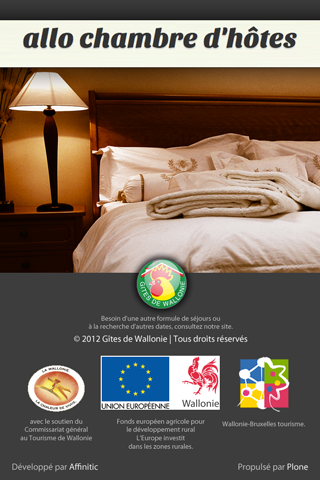
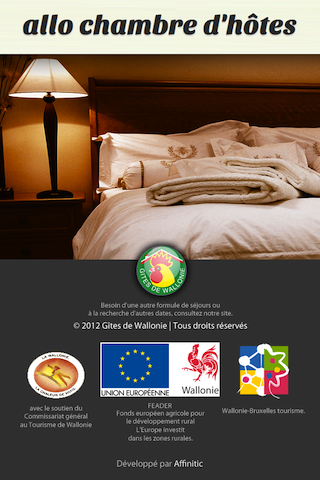
On Phonegap : Add FEADER to text and change credit image This refs #5362

diff --git a/index.html b/index.html
@@ -192,13 +192,13 @@
                              switch (language)
                              {
                                  case "en":
-                                   document.write('European Agricultural Fund for Rural Development.<br />Europe invests in rural areas.');
+                                   document.write('FEADER<br />European Agricultural Fund for Rural Development.<br />Europe invests in rural areas.');
                                  break;
                                  case "fr":
-                                   document.write('Fonds europ&eacute;en agricole pour le d&eacute;veloppement rural.<br />L\'Europe investit dans les zones rurales.');
+                                   document.write('FEADER<br />Fonds europ&eacute;en agricole pour le d&eacute;veloppement rural.<br />L\'Europe investit dans les zones rurales.');
                                  break;
                                  case "nl":
-                                   document.write('Europees Landbouwfonds voor Plattelandsontwikkeling.<br />Europa investeert in de plattelandsgebieden.');
+                                   document.write('FEADER<br />Europees Landbouwfonds voor Plattelandsontwikkeling.<br />Europa investeert in de plattelandsgebieden.');
                                  break;
                              }
                         </script>
